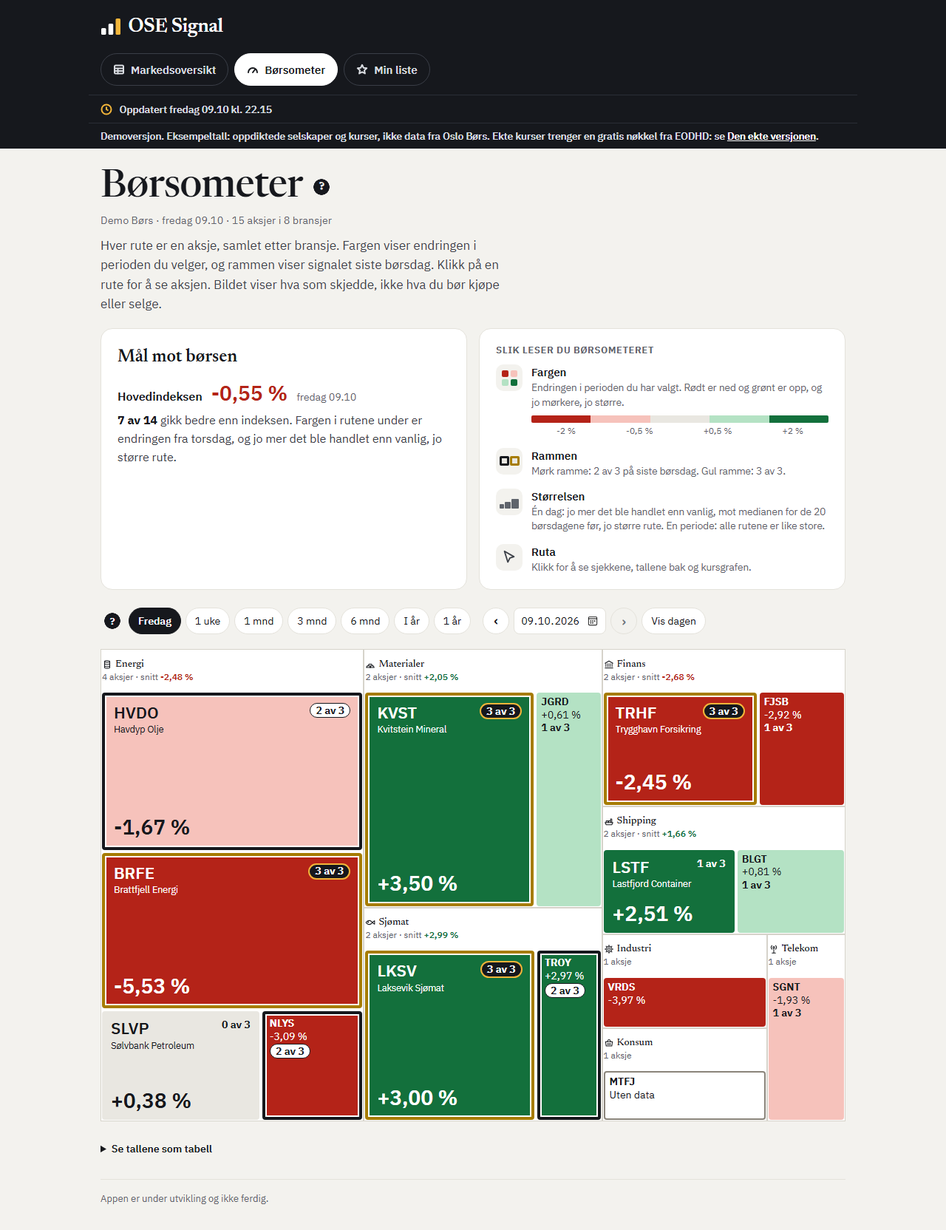
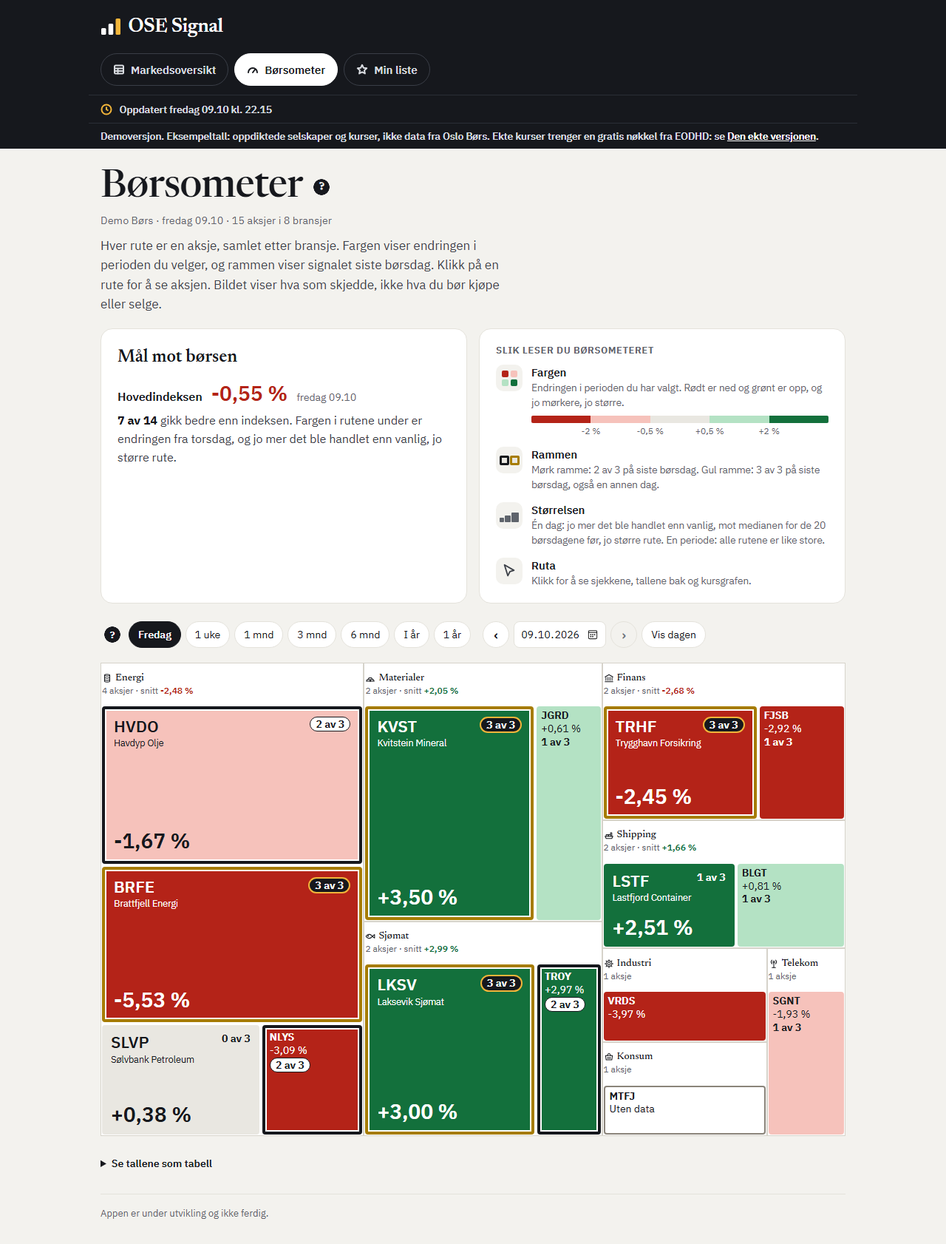
Rettingene etter gjennomgangen av 8.20b
BH1/ECH2: en kortere serie telles ikke mot indeksen. ECH1: ingen «0 av 0».
BH11/ECH5: én tbody per bransje. ECH4: båndet har bakgrunnen fra forsiden.
BH15: gul ramme gjelder siste børsdag. BH16: perioden slutter siste børsdag.
BH3/ECH6/VG6: grensene under overgangene. BH14, BH18, BH20, VG1-VG5,
BH6 og BH8 med tester. Bildene av børsometeret er tatt på nytt.

diff --git a/src/templates/boersometer.html b/src/templates/boersometer.html
@@ -45,16 +45,16 @@
       <h2 id="slik-leser">Slik leser du børsometeret</h2>
       <ul>
         <li><span class="symbolfelt fargefelt" aria-hidden="true"><span class="trinn-ned"></span><span class="trinn-lys-ned"></span><span class="trinn-lys-opp"></span><span class="trinn-opp"></span></span>
-          <span><strong>Fargen</strong>Endringen i perioden du har valgt. Rødt er ned og grønt er opp, og jo mørkere, jo større.
+          <span><strong>Fargen</strong> Endringen i perioden du har valgt. Rødt er ned og grønt er opp, og jo mørkere, jo større.
           <span class="skala" aria-hidden="true">{% for trinn, tekst in fargetrinn %}<span class="trinn-{{ trinn }}"></span>{% endfor %}</span>
           <span class="grenser" aria-hidden="true">{% for grense in skalagrenser %}<span>{{ grense }}</span>{% endfor %}</span>
           <span class="skjult">{% for trinn, tekst in fargetrinn %}{{ tekst }}{% if not loop.last %}, {% else %}.{% endif %} {% endfor %}</span></span></li>
         <li><span class="symbolfelt rammefelt" aria-hidden="true"><span class="proeve ramme-moerk"></span><span class="proeve ramme-gul"></span></span>
-          <span><strong>Rammen</strong>Mørk ramme: {{ antall_sjekker - 1 }} av {{ antall_sjekker }} på siste børsdag. Gul ramme: {{ antall_sjekker }} av {{ antall_sjekker }}.</span></li>
+          <span><strong>Rammen</strong> Mørk ramme: {{ antall_sjekker - 1 }} av {{ antall_sjekker }} på siste børsdag. Gul ramme: {{ antall_sjekker }} av {{ antall_sjekker }} på siste børsdag, også en annen dag.</span></li>
         <li><span class="symbolfelt stoerrelsefelt" aria-hidden="true"><span></span><span></span><span></span></span>
-          <span><strong>Størrelsen</strong>Én dag: jo mer det ble handlet enn vanlig, mot medianen for de {{ volum_vindu }} børsdagene før, jo større rute. En periode: alle rutene er like store.</span></li>
+          <span><strong>Størrelsen</strong> Én dag: jo mer det ble handlet enn vanlig, mot medianen for de {{ volum_vindu }} børsdagene før, jo større rute. En periode: alle rutene er like store.</span></li>
         <li><span class="symbolfelt" aria-hidden="true"><svg viewBox="0 0 24 24" fill="none" stroke="currentColor" stroke-width="2" stroke-linejoin="round"><path d="M5 3l14 8-6 2-3 6z"/></svg></span>
-          <span><strong>Ruta</strong>Klikk for å se sjekkene, tallene bak og kursgrafen.</span></li>
+          <span><strong>Ruta</strong> Klikk for å se sjekkene, tallene bak og kursgrafen.</span></li>
       </ul>
     </section>
     </div>
@@ -133,19 +133,22 @@
       <thead>
         <tr><th scope="col">Selskap</th><th scope="col" class="tall">Endring{% if periodestart %}, {{ periodenavn }}{% endif %}</th><th scope="col" class="tall">Volum mot vanlig{% if periodestart %}, {{ siste|dato }}{% endif %}</th><th scope="col" class="tall">Signalstyrke{% if periodestart %}, {{ siste|dato }}{% endif %}</th></tr>
       </thead>
+      {#- Gjennomgangen (BH11, ECH5): én tbody per bransje, som delene på
+          forsiden, så scope="rowgroup" gjelder radene i bransjen. ECH4:
+          båndet har klassen oevrige, som gir bakgrunnen og antallet i pille. #}
+      {%- for bransje in bransjer %}
       <tbody>
-        {%- for bransje in bransjer %}
-        <tr class="del"><th colspan="4" scope="rowgroup"><span class="bransjebaand">{{ bransjesymbol(bransje.navn) }}{{ bransje.navn }} <span class="antall">{{ bransje.antall }}</span>{% if bransje.snitt is not none %} <span class="bak">snitt <span class="snitt {{ fortegn(bransje.snitt) }}">{{ bransje.snitt|tall('endring') }}</span></span>{% endif %}</span></th></tr>
+        <tr class="del oevrige"><th colspan="4" scope="rowgroup"><span class="bransjebaand">{{ bransjesymbol(bransje.navn) }}{{ bransje.navn }} <span class="antall">{{ bransje.antall }}</span>{% if bransje.snitt is not none %} <span class="bak">snitt <span class="snitt {{ fortegn(bransje.snitt) }}">{{ bransje.snitt|tall('endring') }}</span></span>{% endif %}</span></th></tr>
         {%- for rute in bransje.ruter %}
         <tr{% if rute.ramme == "gul" %} class="gul"{% endif %}>
-          <td class="selskap"><a href="{{ aksjeadresse(rute.aksje.symbol) }}">{{ rute.aksje.navn }}</a><span class="linje">{{ rute.aksje.symbol }}</span></td>
+          <td class="selskap"><a href="{{ aksjeadresse(rute.aksje.symbol) }}">{{ rute.aksje.navn }}</a><span class="skjult">, </span><span class="linje">{{ rute.aksje.symbol }}</span></td>
           <td class="tall">{% if rute.endring is not none %}<span class="{{ fortegn(rute.endring) }}">{{ rute.endring|tall('endring') }}</span>{% if rute.fra %} <span class="fra">fra {{ rute.fra|dato }}</span>{% endif %}{% elif rute.uten_data %}Uten data{% else %}–{% endif %}</td>
           <td class="tall">{% if rute.volumforhold is not none %}{{ rute.volum_vist }} <span class="volumord">({{ rute.volumord }})</span>{% else %}–{% endif %}</td>
           <td class="styrke tall">{% if rute.styrke is not none %}<span class="{% if rute.ramme == 'gul' and dagen == siste %}pille tre-av-tre{% elif rute.ramme == 'moerk' %}pille to-av-tre{% else %}styrketall{% endif %}">{{ rute.styrke }} av {{ antall_sjekker }}</span>{% elif rute.uten_data %}Uten data{% else %}{{ rute.tekst or "–" }}{% endif %}</td>
         </tr>
         {%- endfor %}
-        {%- endfor %}
       </tbody>
+      {%- endfor %}
     </table>
     </div>
     </details>

diff --git a/src/static/stil.css b/src/static/stil.css
@@ -1017,7 +1017,14 @@ p.fotnote { color: var(--dempet); font-size: 0.85rem; margin-top: 1.5rem; }
    til kortet på oversikten, med skalaen for de fem trinnene og grensene under. */
 :where(.side-oversikt) .slik-leser .skala { display: flex; height: 10px; margin: 8px 0 2px; border-radius: 2px; overflow: hidden; }
 :where(.side-oversikt) .slik-leser .skala span { flex: 1; }
-:where(.side-oversikt) .slik-leser .grenser { display: flex; justify-content: space-around; font-size: 12px; font-variant-numeric: tabular-nums; }
+/* Gjennomgangen (BH3, ECH6, VG6): grensene står under overgangene mellom de fem
+   trinnene, ved 20, 40, 60 og 80 %. */
+:where(.side-oversikt) .slik-leser .grenser { display: block; position: relative; height: 16px; font-size: 12px; font-variant-numeric: tabular-nums; }
+:where(.side-oversikt) .slik-leser .grenser span { position: absolute; top: 0; transform: translateX(-50%); white-space: nowrap; }
+:where(.side-oversikt) .slik-leser .grenser span:nth-child(1) { left: 20%; }
+:where(.side-oversikt) .slik-leser .grenser span:nth-child(2) { left: 40%; }
+:where(.side-oversikt) .slik-leser .grenser span:nth-child(3) { left: 60%; }
+:where(.side-oversikt) .slik-leser .grenser span:nth-child(4) { left: 80%; }
 :where(.side-oversikt) .fargefelt { display: grid; grid-template-columns: 9px 9px; gap: 3px; align-content: center; justify-content: center; }
 :where(.side-oversikt) .fargefelt span { width: 9px; height: 9px; border-radius: 2px; }
 :where(.side-oversikt) .rammefelt .proeve { display: inline-block; box-sizing: border-box; width: 13px; height: 13px; border-width: 3px; border-radius: 2px;

diff --git a/tests/test_boersometeret_8_20b.py b/tests/test_boersometeret_8_20b.py
@@ -10,6 +10,7 @@ test_hjelpefeltet.py, med siden skrevet til en midlertidig mappe.
 """
 
 import json
+import os
 import re
 import shutil
 from datetime import datetime, timezone
@@ -28,7 +29,10 @@ from test_hjelpefeltet import NETTLESER, _kjoer
 ROT = Path(__file__).resolve().parent.parent
 STIL = (ROT / "src" / "static" / "stil.css").read_text(encoding="utf-8")
 ADRESSENE = ("/boersometer", "/boersometer?periode=1-uke", "/boersometer?periode=velg&dag=2026-10-01")
-nettleser = pytest.mark.skipif(NETTLESER is None, reason="ingen Edge eller Chrome å måle siden i")
+# Gjennomgangen (VG1): i CI feiler testene når nettleseren mangler, som i test_hjelpefeltet.py.
+nettleser = pytest.mark.skipif(
+    NETTLESER is None and not os.environ.get("CI"), reason="ingen Edge eller Chrome å måle siden i"
+)
 
 
 @pytest.fixture(autouse=True)
@@ -160,11 +164,12 @@ class TestTabellen:
             "Signalstyrke",
         ]
         baand = re.findall(
-            r'<tr class="del"><th colspan="4" scope="rowgroup"><span class="bransjebaand">(<svg .*?</svg>)',
+            r'<tbody>\s*<tr class="del oevrige"><th colspan="4" scope="rowgroup"><span class="bransjebaand">(<svg .*?</svg>)',
             tabell,
             re.S,
         )
-        assert len(baand) == 8
+        # Gjennomgangen (BH11, ECH5): én tbody per bransje, og ECH4: båndet har bakgrunnen fra forsiden.
+        assert len(baand) == 8 and tabell.count("<tbody>") == 8
         gule = re.findall(r'<tr class="gul">\s*<td class="selskap"><a href="/aksje/([A-Z]+)"', tabell)
         assert sorted(gule) == ["BRFE", "KVST", "LKSV", "TRHF"]
         for symbol in gule:
@@ -172,6 +177,66 @@ class TestTabellen:
             assert '<span class="pille tre-av-tre">3 av 3</span>' in rad
         assert '<span class="pille to-av-tre">2 av 3</span>' in tabell
         assert "inset 4px 0 0 var(--oransje)" in _regel("tr.gul td:first-child")
+        assert "background: var(--baand-oevrige)" in _regel("tr.del.oevrige th")
+
+    def test_ingen_ring_ved_3_av_3_en_annen_dag(self, klient):
+        """Gjennomgangen (VG4): en annen dag har radene med gul ramme styrken
+        fra den dagen, uten ringen for 3 av 3. Ville feilet hvis «and dagen ==
+        siste» falt bort, så «1 av 3» fikk den oransje ringen."""
+        html = _side(klient, "/boersometer?periode=velg&dag=2026-10-01")
+        tabell = html.split('<table class="boersometertabell">', 1)[1].split("</table>", 1)[0]
+        rader = re.findall(r'<tr class="gul">(.*?)</tr>', tabell, re.S)
+        assert rader
+        for rad in rader:
+            assert "pille tre-av-tre" not in rad, rad
+
+
+# --- Del F: bransjeoverskriften (U97) ---------------------------------------------------
+
+
+def test_linja_i_overskriften_er_bransje_tillegg(klient, monkeypatch):
+    """Gjennomgangen (VG3, BH5): bredden på feltet regnes av Bransje.tillegg,
+    så teksten malen viser, må være den samme. Ville feilet med et annet
+    format på snittet, eller en annen tekst, i malen enn i Bransje.tillegg."""
+    bygde = []
+    ekte = app_modul.bygg_boersometer
+    monkeypatch.setattr(app_modul, "bygg_boersometer", lambda ruter: bygde.extend(ekte(ruter)) or bygde)
+    for adresse in ADRESSENE:
+        bygde.clear()
+        html = _side(klient, adresse)
+        vist = {
+            _synlig(navn): _synlig(linje)
+            for navn, linje in re.findall(
+                r'<span class="bransjenavn">([^<]+)</span></span></span>\s*<span class="tillegg">(.*?)</span></h2>',
+                html,
+                re.S,
+            )
+        }
+        assert len(vist) == 8 and vist == {b.navn: b.tillegg for b in bygde}, adresse
+
+
+def test_det_verste_kartet_faar_plass():
+    """Gjennomgangen (BH8, ECH8): mange aksjer i én bransje med lang linje, og
+    én aksje med MINSTE_VEKT mot resten med STOERSTE_VEKT. Ville feilet hvis
+    kartet ikke fant plass, så tabellen sto alene, eller et felt var smalere
+    enn linja med antallet og snittet."""
+    import boersometer as b
+    from kursdata import Aksje
+
+    ruter = [
+        b.Rute(
+            Aksje(f"A{i}", f"A{i}.OL", f"Aksje {i}", "Energi" if i < 10 else b.BRANSJER[i % 8]),
+            -12.34,
+            b.STOERSTE_VEKT if i else b.MINSTE_VEKT,
+            2,
+            None,
+        )
+        for i in range(15)
+    ]
+    kartet = b.kart(b.bygg_boersometer(ruter))
+    for flate in b.FLATENE:
+        for felt in kartet.felt:
+            assert felt.plass[flate.navn].b / 100 * flate.minste >= b.tilleggsbredde(felt.bransje) - 1e-9
 
 
 # --- Del E for børsometeret: høyst 60 ord (U95) og fotnoten (U102) -------------------
@@ -252,7 +317,8 @@ for (const p of document.querySelectorAll(".kart .rute .styrke.pille")) {
 }
 r.tillegg = Array.from(document.querySelectorAll(".kart section.bransje h2 .tillegg")).map((t) => {
   const b = t.getBoundingClientRect(), h = t.closest("h2").getBoundingClientRect();
-  return [t.scrollWidth <= t.clientWidth + 0.5, b.bottom <= h.bottom + 0.5, b.height > 0];
+  // Gjennomgangen (BH6): h2 klipper, så linja må stå innenfor h2 sidelengs også.
+  return [b.left >= h.left - 0.5 && b.right <= h.right + 0.5, b.bottom <= h.bottom + 0.5, b.height > 0];
 });
 ferdig(r);
 """
@@ -280,7 +346,8 @@ class TestINettleseren:
         assert t2 >= t1 + h1, r["kort"]
         assert r["rulling"] == 0
 
-    @pytest.mark.parametrize("bredde", [390, 1280])
+    # Gjennomgangen (VG2): også ved 320 px, der kartet er smalest mot skriften.
+    @pytest.mark.parametrize("bredde", [320, 390, 1280])
     @pytest.mark.parametrize("adresse", ["/boersometer", "/boersometer?periode=1-uke"])
     def test_pillene_like_store_og_inne_i_ruta(self, klient, tmp_path, bredde, adresse):
         """U94: «2 av 3» og «3 av 3» i samme størrelse i alle rutene, og aldri

diff --git a/tests/test_docker.py b/tests/test_docker.py
@@ -1173,7 +1173,9 @@ HOEYDE_PAA_BILDET = 1864
 # hjelpetekster.py og aksje.html. Bildet ble tatt paa nytt og er byte for byte det samme.
 # Story 8.20b: stil.css, hjelpetekster.py, graf.py og app.py. Bildet ble tatt paa nytt med
 # DevTools-protokollen og er byte for byte det samme.
[1 lines of base64/hex data omitted]
+# Gjennomgangen av 8.20b: stil.css, hjelpetekster.py og app.py. Bildet ble tatt paa nytt
+# og er byte for byte det samme.
[1 lines of base64/hex data omitted]
 SLIK_TAS_BILDET = (
     "Oversikten er endret, så skjermbildet viser noe annet enn demoen. Ta "
     f"{SKJERMBILDET} på nytt etter «Bildet» i spesifikasjonen 3.3b: demobasen i en "
@@ -1526,7 +1528,9 @@ HOEYDE_PAA_AKSJESIDEN = 2300
 # Story 8.20b: graf.py og aksje.html (BH9, lappen med datoen over tegneflaten),
 # stil.css, hjelpetekster.py og app.py. Bildet ble tatt paa nytt og er fortsatt
 # 2300 px hoeyt.
[1 lines of base64/hex data omitted]
+# Gjennomgangen av 8.20b: stil.css, hjelpetekster.py og app.py. Bildet ble tatt paa nytt
+# og er byte for byte det samme.
[1 lines of base64/hex data omitted]
 SLIK_TAS_AKSJESIDEN = (
     "Aksjesiden er endret, så bildet av den viser noe annet enn demoen. Ta "
     f"{AKSJESIDEBILDET} på nytt med fremgangsmåten i spesifikasjonen 3.3b, mot /aksje/BRFE: "
@@ -1553,15 +1557,15 @@ FILENE_BAK_MIN_LISTE = (*FILENE_BAK_AKSJESIDEN, "src/templates/index.html")
 TOPPEN_AV_OVERSIKTEN = "docs/appen/oversikten-topp-demo.png"
 DE_NYE_BILDENE = {
     TOPPEN_AV_OVERSIKTEN: ("/", 1280, 615, MALENE_BAK_BILDET),
-    # Story 8.20b: 1664, med kortene «Mål mot børsen» og «Slik leser du
+    # Story 8.20b: 1682, med kortene «Mål mot børsen» og «Slik leser du
     # børsometeret» øverst og to linjer i bransjeoverskriftene. Var 1329.
-    "docs/appen/boersometeret-demo.png": ("/boersometer", 1280, 1664, FILENE_BAK_BOERSOMETERET),
+    "docs/appen/boersometeret-demo.png": ("/boersometer", 1280, 1682, FILENE_BAK_BOERSOMETERET),
     "docs/appen/min-liste-demo.png": ("/min-liste", 1280, 1155, FILENE_BAK_MIN_LISTE),
     # Story 8.20a: 3509, med datoen og pilene på egen linje ved 390 px. Var 3524.
     "docs/appen/oversikten-390-demo.png": ("/", 390, 3509, MALENE_BAK_BILDET),
-    # Story 8.20b: 3309, med kortene under hverandre og feltene bredt nok til
+    # Story 8.20b: 3327, med kortene under hverandre og feltene bredt nok til
     # linja med antallet og snittet, så kartet er høyere. Var 1687.
-    "docs/appen/boersometeret-390-demo.png": ("/boersometer", 390, 3309, FILENE_BAK_BOERSOMETERET),
+    "docs/appen/boersometeret-390-demo.png": ("/boersometer", 390, 3327, FILENE_BAK_BOERSOMETERET),
 }
 # Gjennomgangen av svarene 05.11 kl. 14:29: stil.css, hjelpetekster.py og
 # boersometer.py (STORSYMBOL_EM). Bildene ble tatt paa nytt og er byte for byte de samme.
@@ -1617,12 +1621,15 @@ DE_NYE_BILDENE = {
 # aksje.html og app.py. Alle bildene ble tatt paa nytt med DevTools-protokollen.
 # Toppen av oversikten, Min liste og oversikten ved 390 px er byte for byte de samme;
 # de to av børsometeret viser kortene, bransjeoverskriftene og tabellen fra 8.20b.
+# Gjennomgangen av 8.20b: boersometer.html, stil.css, hjelpetekster.py og app.py. Alle
+# bildene ble tatt paa nytt. De to av børsometeret er nye (rammen og grensene i kortet);
+# de tre andre er byte for byte de samme.
 AVTRYKK_BAK_DE_NYE_BILDENE = {
[10 lines of base64/hex data omitted]
 }
 SLIK_TAS_DE_NYE_BILDENE = (
     "Siden bak {bildet} er endret, så bildet viser noe annet enn demoen. Ta det på nytt som "

diff --git a/tests/test_boersometer.py b/tests/test_boersometer.py
@@ -1329,7 +1329,10 @@ class TestFargetrinnene:
             r"<span>([^<]+)</span>", re.search(r'<span class="grenser".*?</span></span>', kortet, re.S).group(0)
         )
         assert grenser == ["-2\u00a0%", "-0,5\u00a0%", "+0,5\u00a0%", "+2\u00a0%"]
-        assert "Mørk ramme: 2 av 3 på siste børsdag. Gul ramme: 3 av 3." in kortet
+        # Gjennomgangen (BH15): gul ramme gjelder siste børsdag, også en annen dag.
+        assert "Mørk ramme: 2 av 3 på siste børsdag. Gul ramme: 3 av 3 på siste børsdag, også en annen dag." in kortet
+        # Gjennomgangen (VG5): vinduet for volumet kommer fra Parametre.
+        assert f"mot medianen for de {STANDARD.volum_vindu} børsdagene før" in kortet
         assert html.index('<section class="slik-leser"') < html.index('<section class="bransje"')
 
     def test_hjelpen_sier_det(self):
@@ -1501,8 +1504,8 @@ class TestKartet:
         ikke sa at Tab følger kartet (gruppens svar 26.10 kl. 13:00, a)."""
         from hjelpetekster import hjelpetekster
 
-        # Story 8.20b (U95): regelen står i docs/hjelp.md, ikke i vinduet.
-        assert hjelpetekster(STANDARD)["boersometeret"]
+        # Story 8.20b (U95): regelen står i docs/hjelp.md, ikke i vinduet (BH18).
+        assert "Tab" not in hjelpetekster(STANDARD)["boersometeret"].tekst
         assert "Med Tab går du gjennom kartet fra det største feltet" in _avsnittet()
         assert "tabellen har bransjene i fast rekkefølge" in _avsnittet()
 

diff --git a/tests/test_periodevalget_min_liste_boersometer.py b/tests/test_periodevalget_min_liste_boersometer.py
@@ -345,6 +345,19 @@ class TestGjennomgangen:
         rad = next(r for r in tabell.split("<tr>") if "Aker BP" in r)
         assert "+5,00 % fra 05.10" in _synlig(rad)
 
+    def test_en_kortere_serie_telles_ikke_mot_indeksen(self, klient):
+        """Gjennomgangen av 8.20b (BH1, ECH2): AKRBP begynner 05.10, så
+        endringen gjelder et annet tidsrom enn indeksen, og aksjen telles ikke
+        i «N av M gikk bedre enn indeksen». Ville feilet med AKRBP i M."""
+        _basen(med_indeks=True)
+        html = _side(klient, "/boersometer?periode=1-uke")
+        kortet = html.split('class="maal"')[1].split("</section>")[0]
+        m = int(re.search(r"<strong>\d+ av (\d+)</strong>", kortet).group(1))
+        tabell = html.split('<table class="boersometertabell">')[1]
+        med_fra = tabell.count('<span class="fra">fra ')
+        endringer = len(re.findall(r'<td class="tall"><span class="(?:opp|ned|null)">', tabell))
+        assert med_fra >= 1 and m == endringer - med_fra
+
     def test_linja_under_for_en_rad_med_eldre_dag(self, klient):
         """VG3: linja under går til radens egen siste dag, 08.10 for KOG,
         med 50 begge dagene, så 0,00 %. Ville feilet med «–» hvis sidens

diff --git a/src/app.py b/src/app.py
@@ -768,9 +768,12 @@ def boersometer():
     indeks = _indeksen_for_dagen(dagen) if periodestart is None else _indeksen_for_perioden(periodestart, siste)
     # Story 8.20b (spørsmål 14 b): «N av M gikk bedre enn indeksen» i kortet
     # «Mål mot børsen», med aksjene som har en endring, slik tallene vises
-    # (er_bedre, som oversikten).
-    med_endring = [rute for rute in ruter if rute.endring is not None]
-    bedre = sum(er_bedre(rute.endring, indeks) for rute in med_endring) if indeks is not None else None
+    # (er_bedre, som oversikten). Gjennomgangen (BH1, ECH2): en aksje med
+    # kortere serie i perioden («fra» en senere dag) telles ikke, fordi
+    # endringen gjelder et annet tidsrom enn indeksen. ECH1: uten aksjer å
+    # telle står ikke tallet.
+    med_endring = [rute for rute in ruter if rute.endring is not None and rute.fra is None]
+    bedre = sum(er_bedre(rute.endring, indeks) for rute in med_endring) if indeks is not None and med_endring else None
     return render_template(
         "boersometer.html",
         bransjer=bransjer,

diff --git a/src/hjelpetekster.py b/src/hjelpetekster.py
@@ -538,9 +538,11 @@ def hjelpetekster(p: Parametre = STANDARD) -> dict[str, Hjelpetekst]:
         "perioden_boersometeret": Hjelpetekst(
             "Periodene:",
             # Story 8.20b (U95): teksten fra utkastet i spesifikasjonen for 8.20.
+            # Gjennomgangen (BH16): hvor perioden slutter, og at snittet følger den.
             "den første knappen viser siste børsdag, de andre endringen fra den første kursen i "
-            "perioden, og datoen med «Vis dagen» en dag du velger. Ved en periode er rutene like "
-            "store, fordi volumet mot vanlig gjelder én dag. Rammen er signalet siste børsdag.",
+            "perioden til siste børsdag, i fargen og snittet, og datoen med «Vis dagen» en dag du "
+            "velger. Ved en periode er rutene like store, fordi volumet mot vanlig gjelder én dag. "
+            "Rammen er signalet siste børsdag.",
             (
                 (BOERSOMETER, "def vekt("),
                 (MARKEDSOVERSIKT, "def periodeendring("),

diff --git a/docs/hjelp.md b/docs/hjelp.md
@@ -2,7 +2,7 @@
 title: "Hjelp til «Kom i gang»"
 status: aktiv
 created: 2026-10-11
-updated: 2026-11-07T19:04
+updated: 2026-11-07T19:24
 ---
 
 # Hjelp til «Kom i gang»
@@ -167,7 +167,7 @@ Har du laget demobasen utenfor Docker før 22.10, sier sidene «Demobasen er lag
 
 ### Hva viser børsometeret?
 
-Én rute per aksje, samlet etter bransje. Fargen har fem trinn etter endringen i perioden du velger, slik tallet står i ruta: grå under ±0,5 %, lys grønn eller lys rød fra 0,5 % til under 2 %, og sterk grønn eller rød med hvit tekst fra 2 %. En rute uten endring er hvit med grå kant. Øverst står to kort, side om side i et bredt vindu og under hverandre på smal skjerm. «Mål mot børsen» har endringen i hovedindeksen den dagen eller for perioden, eller «–» når indeksen ikke har den, hvor mange av aksjene med en endring som gikk bedre enn indeksen, slik tallene vises, og hva fargen og størrelsen måler. «Slik leser du børsometeret» viser fargene med grensene, rammene, størrelsen og hva et klikk på ruta gjør. Rutene er et fylt kart: hver bransje er et felt, og for én dag følger arealet av ruta volumet mot medianen for de 20 børsdagene før, men ruta blir ikke større over tre ganger vanlig volum eller mindre under halvparten, og tabellen under har det faktiske tallet. Med Tab går du gjennom kartet fra det største feltet og den største ruta, slik kartet legger dem, mens tabellen har bransjene i fast rekkefølge. Symbolet og endringen står på ruter som er store nok, og i et bredt vindu får flere ruter plass til teksten. I et vindu fra 1079 px har de største rutene symbolet og styrken øverst, selskapsnavnet under, kuttet med «…» når det er for langt, og endringen i stor skrift nederst, med merket og grunnen mellom der de får plass. En stor rute med gul ramme en annen dag har merket «3 av 3 siste børsdag» og styrken i stedet for navnet når merket ikke får plass under navnet. Mindre ruter har teksten som før. Rammen er tykk med en hvit linje innenfor, gul ved 3 av 3 på siste børsdag, også når du velger en annen dag, og mørk ved 2 av 3 bare på siste børsdag. Styrken står i rutene som har plass, som i tabellen på oversikten: «3 av 3» og «2 av 3» i ring for siste børsdag, like store i alle rutene og aldri utenfor ruta, og ellers som tekst. En annen dag står styrken i en rute med gul ramme bare der merket «3 av 3 siste børsdag» også får plass. En rute med kurs, men uten styrke, sier «ikke vurdert» der styrken ellers står, når ruta har plass, med grunnen under når hele grunnen får plass. Viser en rute «ikke vurdert» av en annen grunn enn at signalet ikke er lagret, som for kort kurshistorikk, sier en fotnote under kartet at grunnen står i tabellen og på aksjesiden. Hver bransje har en tynn ramme. Øverst i feltet står symbolet og navnet, og under dem antallet aksjer og snittet av endringen for aksjene i bransjen som har kurs, for eksempel «3 aksjer · snitt -1,92 %», eller «1 aksje». Den linja står alltid, fordi hvert felt er bredt nok til den, og blir navnet for langt, kuttes det med «…». Over rutene står de samme knappene som i oversikten. Ved 1 uke, 1 mnd, 3 mnd, 6 mnd, I år og 1 år er fargen og snittet endringen fra den første kursen i perioden til siste børsdag, og rutene er like store, fordi volumet mot vanlig gjelder én dag; rammen er fortsatt signalet siste børsdag. Med datoen og «Vis dagen» ser du en tidligere dag. Gult står da fortsatt ved 3 av 3 på siste børsdag, også en dag uten vurdering, og mørk ramme står bare for siste børsdag. En dag uten vurdering står som «ikke vurdert», og da står fotnoten om «ikke vurdert» under tabellen. Klikk på en rute for å se aksjen den dagen. For en aksje uten kurser sier aksjesiden at det ikke finnes kurser ennå. Under rutene står de samme tallene i en tabell, bak «Se tallene som tabell». Den er lukket til du åpner den, og er som tabellen på oversikten: kolonneraden i svart, et bånd for hver bransje i fast rekkefølge med symbolet, antallet og snittet, en oransje strek ved 3 av 3 siste børsdag og styrken i ring. Søylene står bare på oversikten. Det gjelder både demoen og den ekte versjonen.
+Én rute per aksje, samlet etter bransje. Fargen har fem trinn etter endringen fra børsdagen før, eller i perioden du velger, slik tallet står i ruta: grå under ±0,5 %, lys grønn eller lys rød fra 0,5 % til under 2 %, og sterk grønn eller rød med hvit tekst fra 2 %. En rute uten endring er hvit med grå kant. Øverst står to kort, side om side i et bredt vindu og under hverandre på smal skjerm. «Mål mot børsen» har endringen i hovedindeksen den dagen eller for perioden, eller «–» når indeksen ikke har den, hvor mange av aksjene med en endring som gikk bedre enn indeksen, slik tallene vises, uten aksjer med en kortere kursserie i perioden, og hva fargen og størrelsen måler. «Slik leser du børsometeret» viser fargene med grensene, rammene, størrelsen og hva et klikk på ruta gjør. Rutene er et fylt kart: hver bransje er et felt, og for én dag følger arealet av ruta volumet mot medianen for de 20 børsdagene før, men ruta blir ikke større over tre ganger vanlig volum eller mindre under halvparten, og tabellen under har det faktiske tallet. Med Tab går du gjennom kartet fra det største feltet og den største ruta, slik kartet legger dem, mens tabellen har bransjene i fast rekkefølge. Symbolet og endringen står på ruter som er store nok, og i et bredt vindu får flere ruter plass til teksten. I et vindu fra 1079 px har de største rutene symbolet og styrken øverst, selskapsnavnet under, kuttet med «…» når det er for langt, og endringen i stor skrift nederst, med merket og grunnen mellom der de får plass. En stor rute med gul ramme en annen dag har merket «3 av 3 siste børsdag» og styrken i stedet for navnet når merket ikke får plass under navnet. Mindre ruter har teksten som før. Rammen er tykk med en hvit linje innenfor, gul ved 3 av 3 på siste børsdag, også når du velger en annen dag, og mørk ved 2 av 3 bare på siste børsdag. Styrken står i rutene som har plass, som i tabellen på oversikten: «3 av 3» og «2 av 3» i ring for siste børsdag, like store i alle rutene og aldri utenfor ruta, og ellers som tekst. En annen dag står styrken i en rute med gul ramme bare der merket «3 av 3 siste børsdag» også får plass. En rute med kurs, men uten styrke, sier «ikke vurdert» der styrken ellers står, når ruta har plass, med grunnen under når hele grunnen får plass. Viser en rute «ikke vurdert» av en annen grunn enn at signalet ikke er lagret, som for kort kurshistorikk, sier en fotnote under kartet at grunnen står i tabellen og på aksjesiden. Hver bransje har en tynn ramme. Øverst i feltet står symbolet og navnet, og under dem antallet aksjer og snittet av endringen for aksjene i bransjen som har kurs, for eksempel «3 aksjer · snitt -1,92 %», eller «1 aksje». Den linja står alltid, fordi hvert felt er bredt nok til den, og blir navnet for langt, kuttes det med «…». Over rutene står de samme knappene som i oversikten. Ved 1 uke, 1 mnd, 3 mnd, 6 mnd, I år og 1 år er fargen og snittet endringen fra den første kursen i perioden til siste børsdag, og rutene er like store, fordi volumet mot vanlig gjelder én dag; rammen er fortsatt signalet siste børsdag. Med datoen og «Vis dagen» ser du en tidligere dag. Gult står da fortsatt ved 3 av 3 på siste børsdag, også en dag uten vurdering, og mørk ramme står bare for siste børsdag. En dag uten vurdering står som «ikke vurdert», og da står fotnoten om «ikke vurdert» under tabellen. Klikk på en rute for å se aksjen den dagen. For en aksje uten kurser sier aksjesiden at det ikke finnes kurser ennå. Under rutene står de samme tallene i en tabell, bak «Se tallene som tabell». Den er lukket til du åpner den, og er som tabellen på oversikten: kolonneraden i svart, et bånd for hver bransje i fast rekkefølge med symbolet, antallet og snittet, en oransje strek ved 3 av 3 siste børsdag og styrken i ring på siste børsdag. Søylene står bare på oversikten. Det gjelder både demoen og den ekte versjonen.
 
 ### Hva gjør knappene over hovedindeksen?
 
